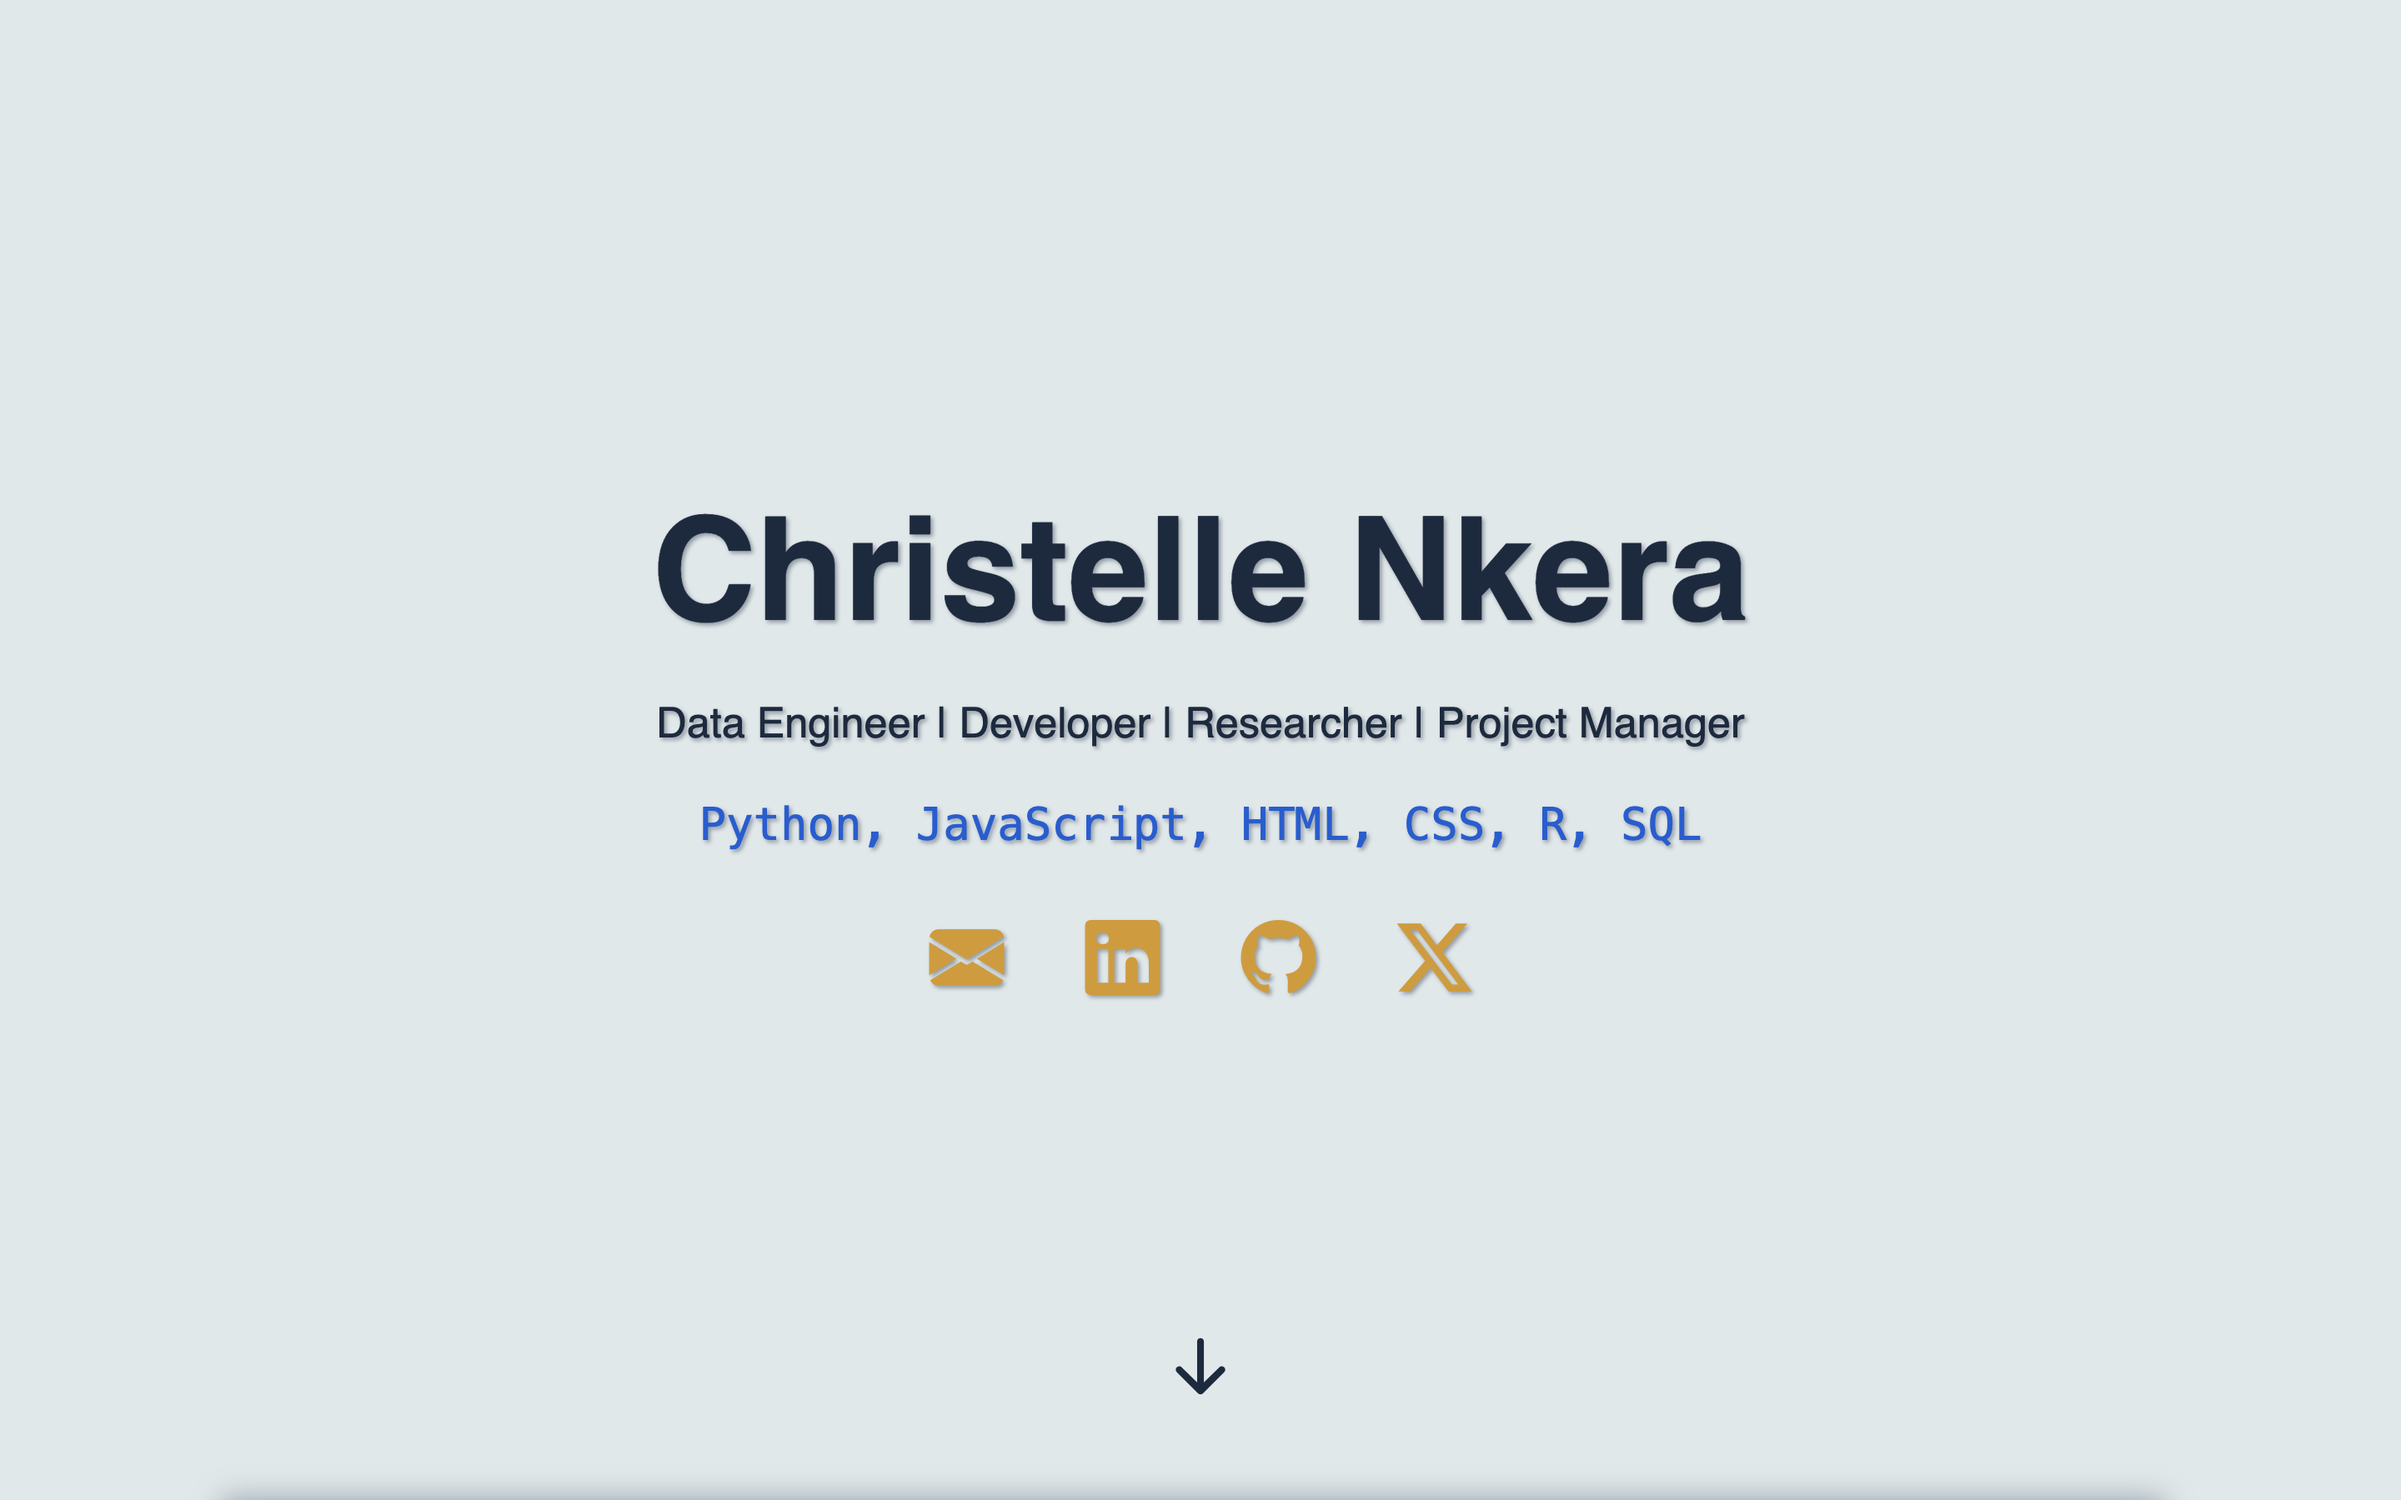
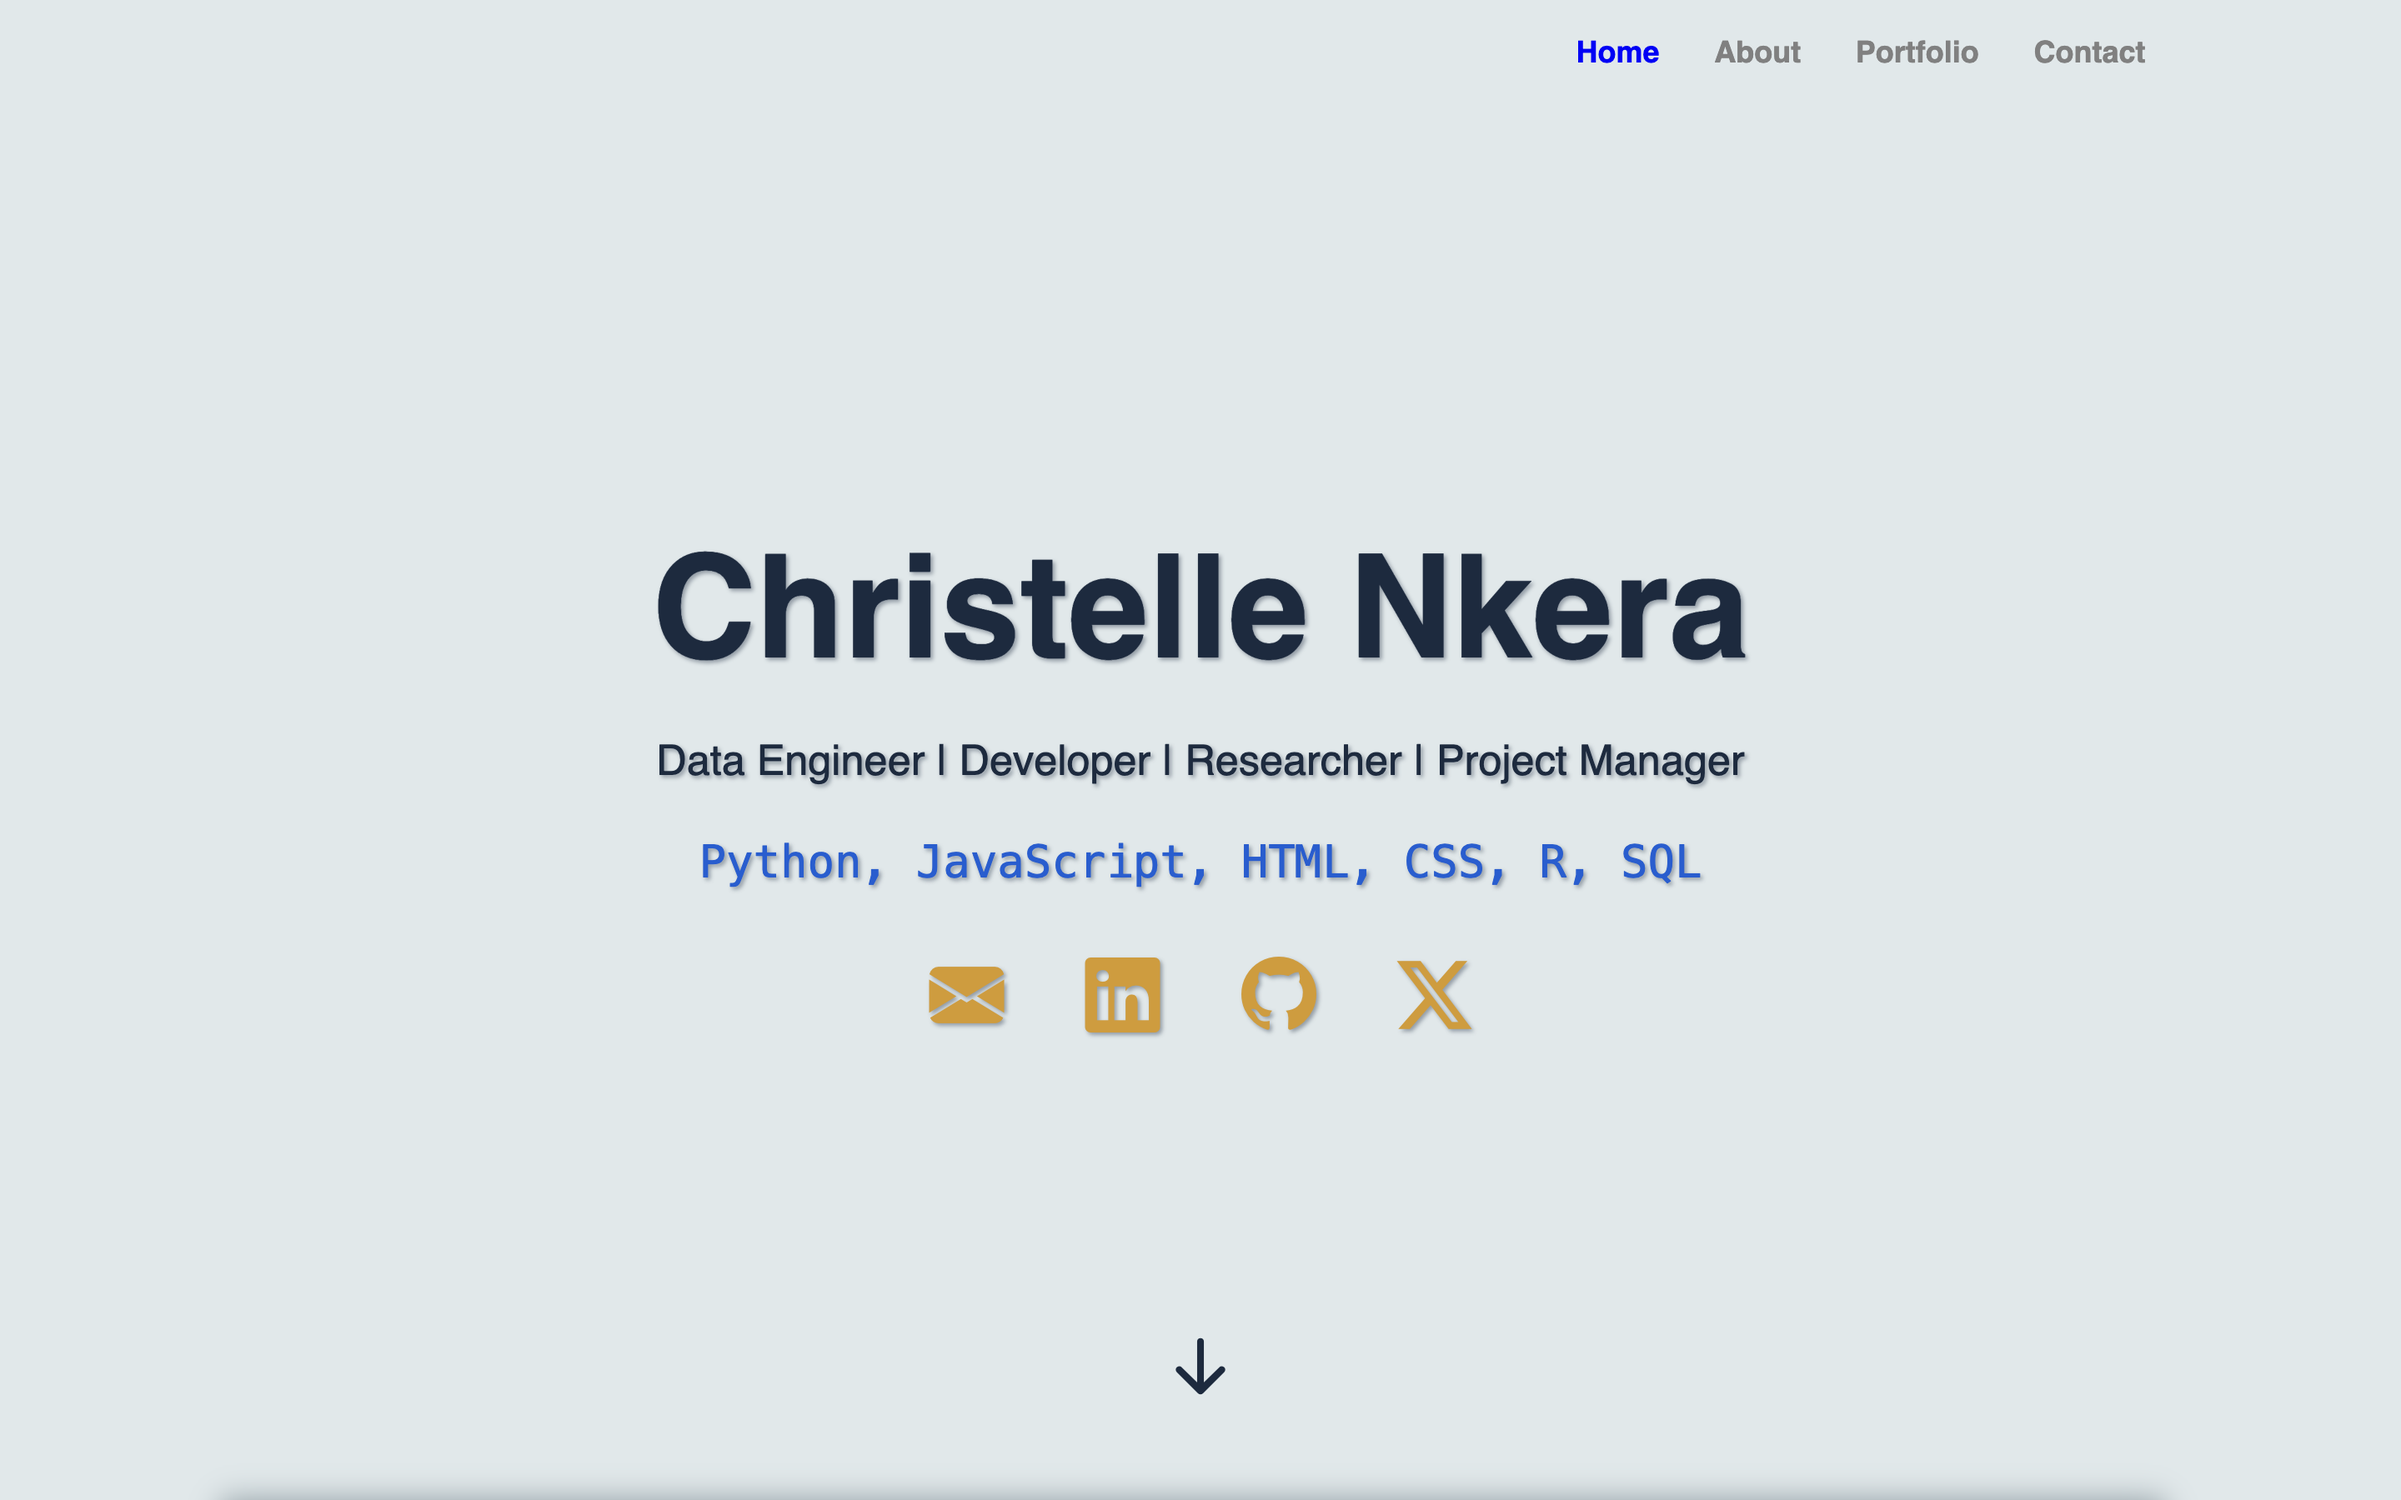
Updated javascript, css, and static folder

diff --git a/script/scipt.js b/script/scipt.js
@@ -4,39 +4,45 @@ button.addEventListener("click", showMessage);
 function showMessage() {
     alert("Thanks for the message. I'll be in touch!");
 }
-
 document.addEventListener("DOMContentLoaded", function() {
     const navBar = document.getElementById("nav_bar");
     const links = navBar.getElementsByTagName("a");
+    let activeLink = links[0]; // Set the Home button as the initially active link
 
     // Set default colors: Home -> Blue, Others -> Gray
-    links[0].style.color = "#085ED6"; // Home button
+    activeLink.style.color = "blue"; // Home button
     for (let i = 1; i < links.length; i++) {
         links[i].style.color = "gray"; // Other buttons
+    }
+
+    // Function to reset all links to gray except the active one
+    function resetColors() {
+        for (let j = 0; j < links.length; j++) {
+            if (links[j] !== activeLink) {
+                links[j].style.color = "gray";
+            }
+        }
     }
 
     // Add event listeners for hover and click events
     for (let i = 0; i < links.length; i++) {
         links[i].addEventListener("mouseover", function() {
-            links[i].style.color = "#085ED6";
+            if (links[i] !== activeLink) {
+                links[i].style.color = "#085ED6";
+            }
         });
 
         links[i].addEventListener("mouseout", function() {
-            // If the link has not been clicked, revert to gray
-            if (!links[i].classList.contains("clicked")) {
+            if (links[i] !== activeLink) {
                 links[i].style.color = "gray";
             }
         });
 
         links[i].addEventListener("click", function() {
-            // Remove the 'clicked' class from all links
-            for (let j = 0; j < links.length; j++) {
-                links[j].classList.remove("clicked");
-                links[j].style.color = "gray"; // Reset all links to gray
-            }
-            // Add the 'clicked' class to the clicked link and set it to blue
-            links[i].classList.add("clicked");
-            links[i].style.color = "#085ED6";
+            // Update activeLink to the clicked one and reset other colors
+            activeLink = links[i];
+            resetColors();
+            activeLink.style.color = "#085ED6";
         });
     }
 });

diff --git a/styles/newStyles.css b/styles/newStyles.css
@@ -27,7 +27,7 @@ body {
 
 #intro {
 	color: #1A2A40;
-	height: 100vh;
+	height: calc(100vh - 50px);
 }
 
 @keyframes fadein {
